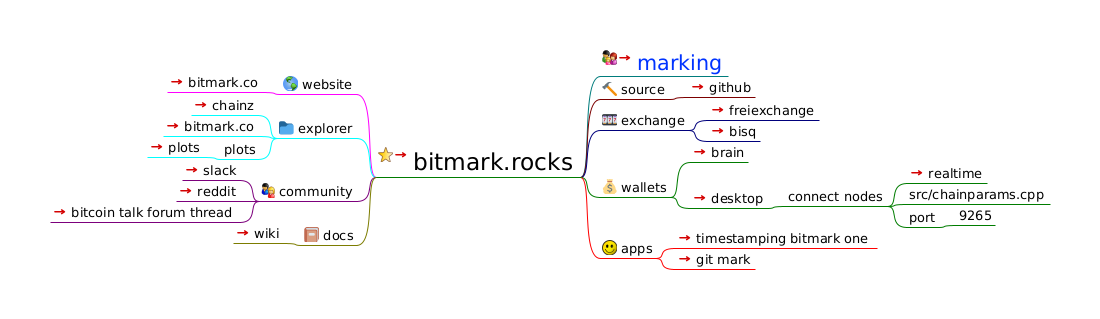
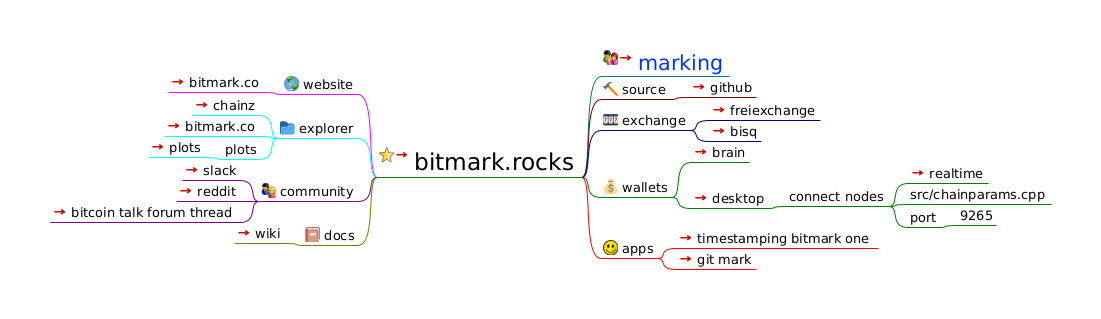
fix main link

diff --git a/index.html b/index.html
@@ -23,38 +23,38 @@
                    };
                };
           
-          --></script></head><body><h1>bitmark.rocks</h1><div style="width:96%;  padding:2%;  margin-bottom:10px;  border: 0px;  text-align:center;  vertical-align:center;"><img src="index.html_files/image.png" style="margin-bottom:10px; &#9;border: 0px; &#9;text-align:center; &#9;vertical-align:center;" alt="Imagemap" usemap="#fm_imagemap" /></div><map name="fm_imagemap" id="fm_imagemap"><area shape="rect" href="../../../../www.localhost/mm/2021/04/14/index.html" alt="bitmark.rocks" title="bitmark.rocks" coords="376,147,581,177" />
-<area shape="rect" href="#FMID_1060112625FM" alt="website" title="website" coords="281,76,357,94" />
-<area shape="rect" href="https://www.bitmark.io/" alt="bitmark.co" title="bitmark.co" coords="167,74,262,92" />
-<area shape="rect" href="#FMID_890451887FM" alt="explorer" title="explorer" coords="277,120,357,138" />
-<area shape="rect" href="https://chainz.cryptoid.info/marks/" alt="chainz" title="chainz" coords="191,97,258,115" />
-<area shape="rect" href="https://explorer.bitmark.co/" alt="bitmark.co" title="bitmark.co" coords="163,118,258,136" />
-<area shape="rect" href="#FMID_387892306FM" alt="plots" title="plots" coords="222,141,258,159" />
-<area shape="rect" href="https://explorer.bitmark.co/plots.week/" alt="plots" title="plots" coords="147,139,203,157" />
-<area shape="rect" href="#FMID_284041985FM" alt="community" title="community" coords="259,183,357,201" />
+          --></script></head><body><h1>bitmark.rocks</h1><div style="width:96%;  padding:2%;  margin-bottom:10px;  border: 0px;  text-align:center;  vertical-align:center;"><img src="index.html_files/image.png" style="margin-bottom:10px; &#9;border: 0px; &#9;text-align:center; &#9;vertical-align:center;" alt="Imagemap" usemap="#fm_imagemap" /></div><map name="fm_imagemap" id="fm_imagemap"><area shape="rect" href="https://bitmark.rocks/" alt="bitmark.rocks" title="bitmark.rocks" coords="377,147,582,177" />
+<area shape="rect" href="#FMID_1060112625FM" alt="website" title="website" coords="282,76,358,94" />
+<area shape="rect" href="https://www.bitmark.io/" alt="bitmark.co" title="bitmark.co" coords="168,74,263,92" />
+<area shape="rect" href="#FMID_890451887FM" alt="explorer" title="explorer" coords="278,120,358,138" />
+<area shape="rect" href="https://chainz.cryptoid.info/marks/" alt="chainz" title="chainz" coords="192,97,259,115" />
+<area shape="rect" href="https://explorer.bitmark.co/" alt="bitmark.co" title="bitmark.co" coords="164,118,259,136" />
+<area shape="rect" href="#FMID_387892306FM" alt="plots" title="plots" coords="223,141,259,159" />
+<area shape="rect" href="https://explorer.bitmark.co/plots.week/" alt="plots" title="plots" coords="148,139,204,157" />
+<area shape="rect" href="#FMID_284041985FM" alt="community" title="community" coords="259,183,358,201" />
 <area shape="rect" href="https://projectbitmark.slack.com/" alt="slack" title="slack" coords="182,162,240,180" />
 <area shape="rect" href="https://www.reddit.com/r/Bitmark/" alt="reddit" title="reddit" coords="176,183,240,201" />
 <area shape="rect" href="https://bitcointalk.org/index.php?topic=3169983.0" alt="bitcoin talk forum thread" title="bitcoin talk forum thread" coords="50,204,240,222" />
-<area shape="rect" href="#FMID_53419768FM" alt="docs" title="docs" coords="302,227,357,245" />
-<area shape="rect" href="https://github.com/project-bitmark/bitmark/wiki" alt="wiki" title="wiki" coords="233,225,283,243" />
-<area shape="rect" href="https://github.com/project-bitmark/marking/wiki" alt="marking" title="marking" coords="600,50,728,76" />
-<area shape="rect" href="#FMID_1630806653FM" alt="source" title="source" coords="600,81,669,99" />
-<area shape="rect" href="https://github.com/project-bitmark/bitmark" alt="github" title="github" coords="688,79,755,97" />
-<area shape="rect" href="#FMID_1068324254FM" alt="exchange" title="exchange" coords="600,112,689,130" />
-<area shape="rect" href="https://freiexchange.com/market/BTM/BTC" alt="freiexchange" title="freiexchange" coords="708,102,819,120" />
-<area shape="rect" href="https://bisq.network/" alt="bisq" title="bisq" coords="708,123,760,141" />
-<area shape="rect" href="#FMID_1383026871FM" alt="wallets" title="wallets" coords="600,179,671,197" />
-<area shape="rect" href="https://project-bitmark.github.io/brain/" alt="brain" title="brain" coords="690,144,748,162" />
-<area shape="rect" href="https://github.com/project-bitmark/bitmark/releases/tag/v0.9.7.2" alt="desktop" title="desktop" coords="690,190,767,208" />
-<area shape="rect" href="#FMID_335702249FM" alt="connect nodes" title="connect nodes" coords="786,188,888,206" />
-<area shape="rect" href="https://chainetics.com/bitmark-nodes.php" alt="realtime" title="realtime" coords="907,165,987,183" />
-<area shape="rect" href="#FMID_1040641396FM" alt="src/chainparams.cpp" title="src/chainparams.cpp" coords="907,186,1050,204" />
-<area shape="rect" href="#FMID_1609171146FM" alt="port" title="port" coords="907,209,938,227" />
-<area shape="rect" href="#FMID_1214551580FM" alt="9265" title="9265" coords="957,207,995,225" />
-<area shape="rect" href="#FMID_625031095FM" alt="apps" title="apps" coords="600,240,656,258" />
-<area shape="rect" href="https://timestamp.bitmark.one/" alt="timestamping bitmark one" title="timestamping bitmark one" coords="675,230,877,248" />
-<area shape="rect" href="https://git-mark.com/" alt="git mark" title="git mark" coords="675,251,755,269" />
+<area shape="rect" href="#FMID_53419768FM" alt="docs" title="docs" coords="303,227,358,245" />
+<area shape="rect" href="https://github.com/project-bitmark/bitmark/wiki" alt="wiki" title="wiki" coords="234,225,284,243" />
+<area shape="rect" href="https://github.com/project-bitmark/marking/wiki" alt="marking" title="marking" coords="601,50,729,76" />
+<area shape="rect" href="#FMID_1630806653FM" alt="source" title="source" coords="601,81,670,99" />
+<area shape="rect" href="https://github.com/project-bitmark/bitmark" alt="github" title="github" coords="689,79,756,97" />
+<area shape="rect" href="#FMID_1068324254FM" alt="exchange" title="exchange" coords="601,112,690,130" />
+<area shape="rect" href="https://freiexchange.com/market/BTM/BTC" alt="freiexchange" title="freiexchange" coords="709,102,820,120" />
+<area shape="rect" href="https://bisq.network/" alt="bisq" title="bisq" coords="709,123,761,141" />
+<area shape="rect" href="#FMID_1383026871FM" alt="wallets" title="wallets" coords="601,179,672,197" />
+<area shape="rect" href="https://project-bitmark.github.io/brain/" alt="brain" title="brain" coords="691,144,749,162" />
+<area shape="rect" href="https://github.com/project-bitmark/bitmark/releases/tag/v0.9.7.2" alt="desktop" title="desktop" coords="691,190,768,208" />
+<area shape="rect" href="#FMID_335702249FM" alt="connect nodes" title="connect nodes" coords="787,188,889,206" />
+<area shape="rect" href="https://chainetics.com/bitmark-nodes.php" alt="realtime" title="realtime" coords="908,165,988,183" />
+<area shape="rect" href="#FMID_1040641396FM" alt="src/chainparams.cpp" title="src/chainparams.cpp" coords="908,186,1051,204" />
+<area shape="rect" href="#FMID_1609171146FM" alt="port" title="port" coords="908,209,939,227" />
+<area shape="rect" href="#FMID_1214551580FM" alt="9265" title="9265" coords="958,207,996,225" />
+<area shape="rect" href="#FMID_625031095FM" alt="apps" title="apps" coords="601,240,657,258" />
+<area shape="rect" href="https://timestamp.bitmark.one/" alt="timestamping bitmark one" title="timestamping bitmark one" coords="676,230,878,248" />
+<area shape="rect" href="https://git-mark.com/" alt="git mark" title="git mark" coords="676,251,756,269" />
 </map>
 
-<div class="node"><img src="index.html_files/hide.png" class="hideshow" alt="hide" onClick="toggle(&quot;N65543&quot;)" id="imgN65543" /><img src="index.html_files/icons/bookmark.svg" alt="bookmark" /> <a id="FMID_9134036FM" /><div class="nodecontent" style="color:#000000;font-size:150%;"><a href="../../../../www.localhost/mm/2021/04/14/index.html">bitmark.rocks</a> <a href="../../../../www.localhost/mm/2021/04/14/index.html"><img src="index.html_files/ilink.png" alt="User Link" style="border-width:0" /></a></div><div class="content" id="N65543"><div class="node"><img src="index.html_files/hide.png" class="hideshow" alt="hide" onClick="toggle(&quot;N66445&quot;)" id="imgN66445" /><img src="index.html_files/icons/internet.svg" alt="internet" /> <a id="FMID_1060112625FM" /><div class="nodecontent" style="color:#000000;font-size:83%;">website</div><div class="content" id="N66445"><div class="node"><img src="index.html_files/leaf.png" class="hideshow" alt="leaf" /><a id="FMID_909182614FM" /><div class="nodecontent" style="color:#000000;font-size:83%;"><a href="https://www.bitmark.io/">bitmark.co</a> <a href="https://www.bitmark.io/"><img src="index.html_files/ilink.png" alt="User Link" style="border-width:0" /></a></div></div></div></div><div class="node"><img src="index.html_files/hide.png" class="hideshow" alt="hide" onClick="toggle(&quot;N66524&quot;)" id="imgN66524" /><img src="index.html_files/icons/emoji-1F4C1.png" alt="emoji-1F4C1" /> <a id="FMID_890451887FM" /><div class="nodecontent" style="color:#000000;font-size:83%;">explorer</div><div class="content" id="N66524"><div class="node"><img src="index.html_files/leaf.png" class="hideshow" alt="leaf" /><a id="FMID_1364530620FM" /><div class="nodecontent" style="color:#000000;font-size:83%;"><a href="https://chainz.cryptoid.info/marks/">chainz</a> <a href="https://chainz.cryptoid.info/marks/"><img src="index.html_files/ilink.png" alt="User Link" style="border-width:0" /></a></div></div><div class="node"><img src="index.html_files/leaf.png" class="hideshow" alt="leaf" /><a id="FMID_281551312FM" /><div class="nodecontent" style="color:#000000;font-size:83%;"><a href="https://explorer.bitmark.co/">bitmark.co</a> <a href="https://explorer.bitmark.co/"><img src="index.html_files/ilink.png" alt="User Link" style="border-width:0" /></a></div></div><div class="node"><img src="index.html_files/hide.png" class="hideshow" alt="hide" onClick="toggle(&quot;N66639&quot;)" id="imgN66639" /><a id="FMID_387892306FM" /><div class="nodecontent" style="color:#000000;font-size:83%;">plots</div><div class="content" id="N66639"><div class="node"><img src="index.html_files/leaf.png" class="hideshow" alt="leaf" /><a id="FMID_696116134FM" /><div class="nodecontent" style="color:#000000;font-size:83%;"><a href="https://explorer.bitmark.co/plots.week/">plots</a> <a href="https://explorer.bitmark.co/plots.week/"><img src="index.html_files/ilink.png" alt="User Link" style="border-width:0" /></a></div></div></div></div></div></div><div class="node"><img src="index.html_files/hide.png" class="hideshow" alt="hide" onClick="toggle(&quot;N66713&quot;)" id="imgN66713" /><img src="index.html_files/icons/fema.svg" alt="fema" /> <a id="FMID_284041985FM" /><div class="nodecontent" style="color:#000000;font-size:83%;">community</div><div class="content" id="N66713"><div class="node"><img src="index.html_files/leaf.png" class="hideshow" alt="leaf" /><a id="FMID_1745960941FM" /><div class="nodecontent" style="color:#000000;font-size:83%;"><a href="https://projectbitmark.slack.com/">slack</a> <a href="https://projectbitmark.slack.com/"><img src="index.html_files/ilink.png" alt="User Link" style="border-width:0" /></a></div></div><div class="node"><img src="index.html_files/leaf.png" class="hideshow" alt="leaf" /><a id="FMID_262634047FM" /><div class="nodecontent" style="color:#000000;font-size:83%;"><a href="https://www.reddit.com/r/Bitmark/">reddit</a> <a href="https://www.reddit.com/r/Bitmark/"><img src="index.html_files/ilink.png" alt="User Link" style="border-width:0" /></a></div></div><div class="node"><img src="index.html_files/leaf.png" class="hideshow" alt="leaf" /><a id="FMID_724372135FM" /><div class="nodecontent" style="color:#000000;font-size:83%;"><a href="https://bitcointalk.org/index.php?topic=3169983.0">bitcoin talk forum thread</a> <a href="https://bitcointalk.org/index.php?topic=3169983.0"><img src="index.html_files/ilink.png" alt="User Link" style="border-width:0" /></a></div></div></div></div><div class="node"><img src="index.html_files/hide.png" class="hideshow" alt="hide" onClick="toggle(&quot;N66866&quot;)" id="imgN66866" /><img src="index.html_files/icons/emoji-1F4D4.png" alt="emoji-1F4D4" /> <a id="FMID_53419768FM" /><div class="nodecontent" style="color:#000000;font-size:83%;">docs</div><div class="content" id="N66866"><div class="node"><img src="index.html_files/leaf.png" class="hideshow" alt="leaf" /><a id="FMID_427769929FM" /><div class="nodecontent" style="color:#000000;font-size:83%;"><a href="https://github.com/project-bitmark/bitmark/wiki">wiki</a> <a href="https://github.com/project-bitmark/bitmark/wiki"><img src="index.html_files/ilink.png" alt="User Link" style="border-width:0" /></a></div></div></div></div><div class="node"><img src="index.html_files/leaf.png" class="hideshow" alt="leaf" /><img src="index.html_files/icons/family.svg" alt="family" /> <a id="FMID_525386330FM" /><div class="nodecontent" style="color:#0033ff;font-size:133%;"><a href="https://github.com/project-bitmark/marking/wiki">marking</a> <a href="https://github.com/project-bitmark/marking/wiki"><img src="index.html_files/ilink.png" alt="User Link" style="border-width:0" /></a></div></div><div class="node"><img src="index.html_files/hide.png" class="hideshow" alt="hide" onClick="toggle(&quot;N66989&quot;)" id="imgN66989" /><img src="index.html_files/icons/emoji-1F528.png" alt="emoji-1F528" /> <a id="FMID_1630806653FM" /><div class="nodecontent" style="color:#000000;font-size:83%;">source</div><div class="content" id="N66989"><div class="node"><img src="index.html_files/leaf.png" class="hideshow" alt="leaf" /><a id="FMID_1135958046FM" /><div class="nodecontent" style="color:#000000;font-size:83%;"><a href="https://github.com/project-bitmark/bitmark">github</a> <a href="https://github.com/project-bitmark/bitmark"><img src="index.html_files/ilink.png" alt="User Link" style="border-width:0" /></a></div></div></div></div><div class="node"><img src="index.html_files/hide.png" class="hideshow" alt="hide" onClick="toggle(&quot;N67068&quot;)" id="imgN67068" /><img src="index.html_files/icons/emoji-1F3B0.png" alt="emoji-1F3B0" /> <a id="FMID_1068324254FM" /><div class="nodecontent" style="color:#000000;font-size:83%;">exchange</div><div class="content" id="N67068"><div class="node"><img src="index.html_files/leaf.png" class="hideshow" alt="leaf" /><a id="FMID_1824557321FM" /><div class="nodecontent" style="color:#000000;font-size:83%;"><a href="https://freiexchange.com/market/BTM/BTC">freiexchange</a> <a href="https://freiexchange.com/market/BTM/BTC"><img src="index.html_files/ilink.png" alt="User Link" style="border-width:0" /></a></div></div><div class="node"><img src="index.html_files/leaf.png" class="hideshow" alt="leaf" /><a id="FMID_1737179929FM" /><div class="nodecontent" style="color:#000000;font-size:83%;"><a href="https://bisq.network/">bisq</a> <a href="https://bisq.network/"><img src="index.html_files/ilink.png" alt="User Link" style="border-width:0" /></a></div></div></div></div><div class="node"><img src="index.html_files/hide.png" class="hideshow" alt="hide" onClick="toggle(&quot;N67184&quot;)" id="imgN67184" /><img src="index.html_files/icons/emoji-1F4B0.png" alt="emoji-1F4B0" /> <a id="FMID_1383026871FM" /><div class="nodecontent" style="color:#000000;font-size:83%;">wallets</div><div class="content" id="N67184"><div class="node"><img src="index.html_files/leaf.png" class="hideshow" alt="leaf" /><a id="FMID_383771544FM" /><div class="nodecontent" style="color:#000000;font-size:83%;"><a href="https://project-bitmark.github.io/brain/">brain</a> <a href="https://project-bitmark.github.io/brain/"><img src="index.html_files/ilink.png" alt="User Link" style="border-width:0" /></a></div></div><div class="node"><img src="index.html_files/hide.png" class="hideshow" alt="hide" onClick="toggle(&quot;N67262&quot;)" id="imgN67262" /><a id="FMID_1376545695FM" /><div class="nodecontent" style="color:#000000;font-size:83%;"><a href="https://github.com/project-bitmark/bitmark/releases/tag/v0.9.7.2">desktop</a> <a href="https://github.com/project-bitmark/bitmark/releases/tag/v0.9.7.2"><img src="index.html_files/ilink.png" alt="User Link" style="border-width:0" /></a></div><div class="content" id="N67262"><div class="node"><img src="index.html_files/hide.png" class="hideshow" alt="hide" onClick="toggle(&quot;N67298&quot;)" id="imgN67298" /><a id="FMID_335702249FM" /><div class="nodecontent" style="color:#000000;font-size:83%;">connect nodes</div><div class="content" id="N67298"><div class="node"><img src="index.html_files/leaf.png" class="hideshow" alt="leaf" /><a id="FMID_1534178807FM" /><div class="nodecontent" style="color:#000000;font-size:83%;"><a href="https://chainetics.com/bitmark-nodes.php">realtime</a> <a href="https://chainetics.com/bitmark-nodes.php"><img src="index.html_files/ilink.png" alt="User Link" style="border-width:0" /></a></div></div><div class="node"><img src="index.html_files/leaf.png" class="hideshow" alt="leaf" /><a id="FMID_1040641396FM" /><div class="nodecontent" style="color:#000000;font-size:83%;">src/chainparams.cpp</div></div><div class="node"><img src="index.html_files/hide.png" class="hideshow" alt="hide" onClick="toggle(&quot;N67406&quot;)" id="imgN67406" /><a id="FMID_1609171146FM" /><div class="nodecontent" style="color:#000000;font-size:83%;">port</div><div class="content" id="N67406"><div class="node"><img src="index.html_files/leaf.png" class="hideshow" alt="leaf" /><a id="FMID_1214551580FM" /><div class="nodecontent" style="color:#000000;font-size:83%;">9265</div></div></div></div></div></div></div></div></div></div><div class="node"><img src="index.html_files/hide.png" class="hideshow" alt="hide" onClick="toggle(&quot;N67481&quot;)" id="imgN67481" /><img src="index.html_files/icons/ksmiletris.svg" alt="ksmiletris" /> <a id="FMID_625031095FM" /><div class="nodecontent" style="color:#000000;font-size:83%;">apps</div><div class="content" id="N67481"><div class="node"><img src="index.html_files/leaf.png" class="hideshow" alt="leaf" /><a id="FMID_79302981FM" /><div class="nodecontent" style="color:#000000;font-size:83%;"><a href="https://timestamp.bitmark.one/">timestamping bitmark one</a> <a href="https://timestamp.bitmark.one/"><img src="index.html_files/ilink.png" alt="User Link" style="border-width:0" /></a></div></div><div class="node"><img src="index.html_files/leaf.png" class="hideshow" alt="leaf" /><a id="FMID_569224008FM" /><div class="nodecontent" style="color:#000000;font-size:83%;"><a href="https://git-mark.com/">git mark</a> <a href="https://git-mark.com/"><img src="index.html_files/ilink.png" alt="User Link" style="border-width:0" /></a></div></div></div></div></div></div>
+<div class="node"><img src="index.html_files/hide.png" class="hideshow" alt="hide" onClick="toggle(&quot;N65543&quot;)" id="imgN65543" /><img src="index.html_files/icons/bookmark.svg" alt="bookmark" /> <a id="FMID_9134036FM" /><div class="nodecontent" style="color:#000000;font-size:150%;"><a href="https://bitmark.rocks/">bitmark.rocks</a> <a href="https://bitmark.rocks/"><img src="index.html_files/ilink.png" alt="User Link" style="border-width:0" /></a></div><div class="content" id="N65543"><div class="node"><img src="index.html_files/hide.png" class="hideshow" alt="hide" onClick="toggle(&quot;N66445&quot;)" id="imgN66445" /><img src="index.html_files/icons/internet.svg" alt="internet" /> <a id="FMID_1060112625FM" /><div class="nodecontent" style="color:#000000;font-size:83%;">website</div><div class="content" id="N66445"><div class="node"><img src="index.html_files/leaf.png" class="hideshow" alt="leaf" /><a id="FMID_909182614FM" /><div class="nodecontent" style="color:#000000;font-size:83%;"><a href="https://www.bitmark.io/">bitmark.co</a> <a href="https://www.bitmark.io/"><img src="index.html_files/ilink.png" alt="User Link" style="border-width:0" /></a></div></div></div></div><div class="node"><img src="index.html_files/hide.png" class="hideshow" alt="hide" onClick="toggle(&quot;N66524&quot;)" id="imgN66524" /><img src="index.html_files/icons/emoji-1F4C1.png" alt="emoji-1F4C1" /> <a id="FMID_890451887FM" /><div class="nodecontent" style="color:#000000;font-size:83%;">explorer</div><div class="content" id="N66524"><div class="node"><img src="index.html_files/leaf.png" class="hideshow" alt="leaf" /><a id="FMID_1364530620FM" /><div class="nodecontent" style="color:#000000;font-size:83%;"><a href="https://chainz.cryptoid.info/marks/">chainz</a> <a href="https://chainz.cryptoid.info/marks/"><img src="index.html_files/ilink.png" alt="User Link" style="border-width:0" /></a></div></div><div class="node"><img src="index.html_files/leaf.png" class="hideshow" alt="leaf" /><a id="FMID_281551312FM" /><div class="nodecontent" style="color:#000000;font-size:83%;"><a href="https://explorer.bitmark.co/">bitmark.co</a> <a href="https://explorer.bitmark.co/"><img src="index.html_files/ilink.png" alt="User Link" style="border-width:0" /></a></div></div><div class="node"><img src="index.html_files/hide.png" class="hideshow" alt="hide" onClick="toggle(&quot;N66639&quot;)" id="imgN66639" /><a id="FMID_387892306FM" /><div class="nodecontent" style="color:#000000;font-size:83%;">plots</div><div class="content" id="N66639"><div class="node"><img src="index.html_files/leaf.png" class="hideshow" alt="leaf" /><a id="FMID_696116134FM" /><div class="nodecontent" style="color:#000000;font-size:83%;"><a href="https://explorer.bitmark.co/plots.week/">plots</a> <a href="https://explorer.bitmark.co/plots.week/"><img src="index.html_files/ilink.png" alt="User Link" style="border-width:0" /></a></div></div></div></div></div></div><div class="node"><img src="index.html_files/hide.png" class="hideshow" alt="hide" onClick="toggle(&quot;N66713&quot;)" id="imgN66713" /><img src="index.html_files/icons/fema.svg" alt="fema" /> <a id="FMID_284041985FM" /><div class="nodecontent" style="color:#000000;font-size:83%;">community</div><div class="content" id="N66713"><div class="node"><img src="index.html_files/leaf.png" class="hideshow" alt="leaf" /><a id="FMID_1745960941FM" /><div class="nodecontent" style="color:#000000;font-size:83%;"><a href="https://projectbitmark.slack.com/">slack</a> <a href="https://projectbitmark.slack.com/"><img src="index.html_files/ilink.png" alt="User Link" style="border-width:0" /></a></div></div><div class="node"><img src="index.html_files/leaf.png" class="hideshow" alt="leaf" /><a id="FMID_262634047FM" /><div class="nodecontent" style="color:#000000;font-size:83%;"><a href="https://www.reddit.com/r/Bitmark/">reddit</a> <a href="https://www.reddit.com/r/Bitmark/"><img src="index.html_files/ilink.png" alt="User Link" style="border-width:0" /></a></div></div><div class="node"><img src="index.html_files/leaf.png" class="hideshow" alt="leaf" /><a id="FMID_724372135FM" /><div class="nodecontent" style="color:#000000;font-size:83%;"><a href="https://bitcointalk.org/index.php?topic=3169983.0">bitcoin talk forum thread</a> <a href="https://bitcointalk.org/index.php?topic=3169983.0"><img src="index.html_files/ilink.png" alt="User Link" style="border-width:0" /></a></div></div></div></div><div class="node"><img src="index.html_files/hide.png" class="hideshow" alt="hide" onClick="toggle(&quot;N66866&quot;)" id="imgN66866" /><img src="index.html_files/icons/emoji-1F4D4.png" alt="emoji-1F4D4" /> <a id="FMID_53419768FM" /><div class="nodecontent" style="color:#000000;font-size:83%;">docs</div><div class="content" id="N66866"><div class="node"><img src="index.html_files/leaf.png" class="hideshow" alt="leaf" /><a id="FMID_427769929FM" /><div class="nodecontent" style="color:#000000;font-size:83%;"><a href="https://github.com/project-bitmark/bitmark/wiki">wiki</a> <a href="https://github.com/project-bitmark/bitmark/wiki"><img src="index.html_files/ilink.png" alt="User Link" style="border-width:0" /></a></div></div></div></div><div class="node"><img src="index.html_files/leaf.png" class="hideshow" alt="leaf" /><img src="index.html_files/icons/family.svg" alt="family" /> <a id="FMID_525386330FM" /><div class="nodecontent" style="color:#0033ff;font-size:133%;"><a href="https://github.com/project-bitmark/marking/wiki">marking</a> <a href="https://github.com/project-bitmark/marking/wiki"><img src="index.html_files/ilink.png" alt="User Link" style="border-width:0" /></a></div></div><div class="node"><img src="index.html_files/hide.png" class="hideshow" alt="hide" onClick="toggle(&quot;N66989&quot;)" id="imgN66989" /><img src="index.html_files/icons/emoji-1F528.png" alt="emoji-1F528" /> <a id="FMID_1630806653FM" /><div class="nodecontent" style="color:#000000;font-size:83%;">source</div><div class="content" id="N66989"><div class="node"><img src="index.html_files/leaf.png" class="hideshow" alt="leaf" /><a id="FMID_1135958046FM" /><div class="nodecontent" style="color:#000000;font-size:83%;"><a href="https://github.com/project-bitmark/bitmark">github</a> <a href="https://github.com/project-bitmark/bitmark"><img src="index.html_files/ilink.png" alt="User Link" style="border-width:0" /></a></div></div></div></div><div class="node"><img src="index.html_files/hide.png" class="hideshow" alt="hide" onClick="toggle(&quot;N67068&quot;)" id="imgN67068" /><img src="index.html_files/icons/emoji-1F3B0.png" alt="emoji-1F3B0" /> <a id="FMID_1068324254FM" /><div class="nodecontent" style="color:#000000;font-size:83%;">exchange</div><div class="content" id="N67068"><div class="node"><img src="index.html_files/leaf.png" class="hideshow" alt="leaf" /><a id="FMID_1824557321FM" /><div class="nodecontent" style="color:#000000;font-size:83%;"><a href="https://freiexchange.com/market/BTM/BTC">freiexchange</a> <a href="https://freiexchange.com/market/BTM/BTC"><img src="index.html_files/ilink.png" alt="User Link" style="border-width:0" /></a></div></div><div class="node"><img src="index.html_files/leaf.png" class="hideshow" alt="leaf" /><a id="FMID_1737179929FM" /><div class="nodecontent" style="color:#000000;font-size:83%;"><a href="https://bisq.network/">bisq</a> <a href="https://bisq.network/"><img src="index.html_files/ilink.png" alt="User Link" style="border-width:0" /></a></div></div></div></div><div class="node"><img src="index.html_files/hide.png" class="hideshow" alt="hide" onClick="toggle(&quot;N67184&quot;)" id="imgN67184" /><img src="index.html_files/icons/emoji-1F4B0.png" alt="emoji-1F4B0" /> <a id="FMID_1383026871FM" /><div class="nodecontent" style="color:#000000;font-size:83%;">wallets</div><div class="content" id="N67184"><div class="node"><img src="index.html_files/leaf.png" class="hideshow" alt="leaf" /><a id="FMID_383771544FM" /><div class="nodecontent" style="color:#000000;font-size:83%;"><a href="https://project-bitmark.github.io/brain/">brain</a> <a href="https://project-bitmark.github.io/brain/"><img src="index.html_files/ilink.png" alt="User Link" style="border-width:0" /></a></div></div><div class="node"><img src="index.html_files/hide.png" class="hideshow" alt="hide" onClick="toggle(&quot;N67262&quot;)" id="imgN67262" /><a id="FMID_1376545695FM" /><div class="nodecontent" style="color:#000000;font-size:83%;"><a href="https://github.com/project-bitmark/bitmark/releases/tag/v0.9.7.2">desktop</a> <a href="https://github.com/project-bitmark/bitmark/releases/tag/v0.9.7.2"><img src="index.html_files/ilink.png" alt="User Link" style="border-width:0" /></a></div><div class="content" id="N67262"><div class="node"><img src="index.html_files/hide.png" class="hideshow" alt="hide" onClick="toggle(&quot;N67298&quot;)" id="imgN67298" /><a id="FMID_335702249FM" /><div class="nodecontent" style="color:#000000;font-size:83%;">connect nodes</div><div class="content" id="N67298"><div class="node"><img src="index.html_files/leaf.png" class="hideshow" alt="leaf" /><a id="FMID_1534178807FM" /><div class="nodecontent" style="color:#000000;font-size:83%;"><a href="https://chainetics.com/bitmark-nodes.php">realtime</a> <a href="https://chainetics.com/bitmark-nodes.php"><img src="index.html_files/ilink.png" alt="User Link" style="border-width:0" /></a></div></div><div class="node"><img src="index.html_files/leaf.png" class="hideshow" alt="leaf" /><a id="FMID_1040641396FM" /><div class="nodecontent" style="color:#000000;font-size:83%;">src/chainparams.cpp</div></div><div class="node"><img src="index.html_files/hide.png" class="hideshow" alt="hide" onClick="toggle(&quot;N67406&quot;)" id="imgN67406" /><a id="FMID_1609171146FM" /><div class="nodecontent" style="color:#000000;font-size:83%;">port</div><div class="content" id="N67406"><div class="node"><img src="index.html_files/leaf.png" class="hideshow" alt="leaf" /><a id="FMID_1214551580FM" /><div class="nodecontent" style="color:#000000;font-size:83%;">9265</div></div></div></div></div></div></div></div></div></div><div class="node"><img src="index.html_files/hide.png" class="hideshow" alt="hide" onClick="toggle(&quot;N67481&quot;)" id="imgN67481" /><img src="index.html_files/icons/ksmiletris.svg" alt="ksmiletris" /> <a id="FMID_625031095FM" /><div class="nodecontent" style="color:#000000;font-size:83%;">apps</div><div class="content" id="N67481"><div class="node"><img src="index.html_files/leaf.png" class="hideshow" alt="leaf" /><a id="FMID_79302981FM" /><div class="nodecontent" style="color:#000000;font-size:83%;"><a href="https://timestamp.bitmark.one/">timestamping bitmark one</a> <a href="https://timestamp.bitmark.one/"><img src="index.html_files/ilink.png" alt="User Link" style="border-width:0" /></a></div></div><div class="node"><img src="index.html_files/leaf.png" class="hideshow" alt="leaf" /><a id="FMID_569224008FM" /><div class="nodecontent" style="color:#000000;font-size:83%;"><a href="https://git-mark.com/">git mark</a> <a href="https://git-mark.com/"><img src="index.html_files/ilink.png" alt="User Link" style="border-width:0" /></a></div></div></div></div></div></div>
 </body></html>

diff --git a/index.mm b/index.mm
@@ -1,6 +1,6 @@
 <map version="freeplane 1.8.0">
 <!--To view this file, download free mind mapping software Freeplane from http://freeplane.sourceforge.net -->
-<node TEXT="bitmark.rocks" FOLDED="false" ID="ID_9134036" CREATED="1618386417863" MODIFIED="1618386814419" LINK="../../../../www.localhost/mm/2021/04/14/index.mm">
+<node TEXT="bitmark.rocks" FOLDED="false" ID="ID_9134036" CREATED="1618386417863" MODIFIED="1619344121870" LINK="https://bitmark.rocks/">
 <icon BUILTIN="bookmark"/>
 <edge STYLE="bezier" COLOR="#007c00" WIDTH="thin" DASH="SOLID"/>
 <hook NAME="MapStyle">
